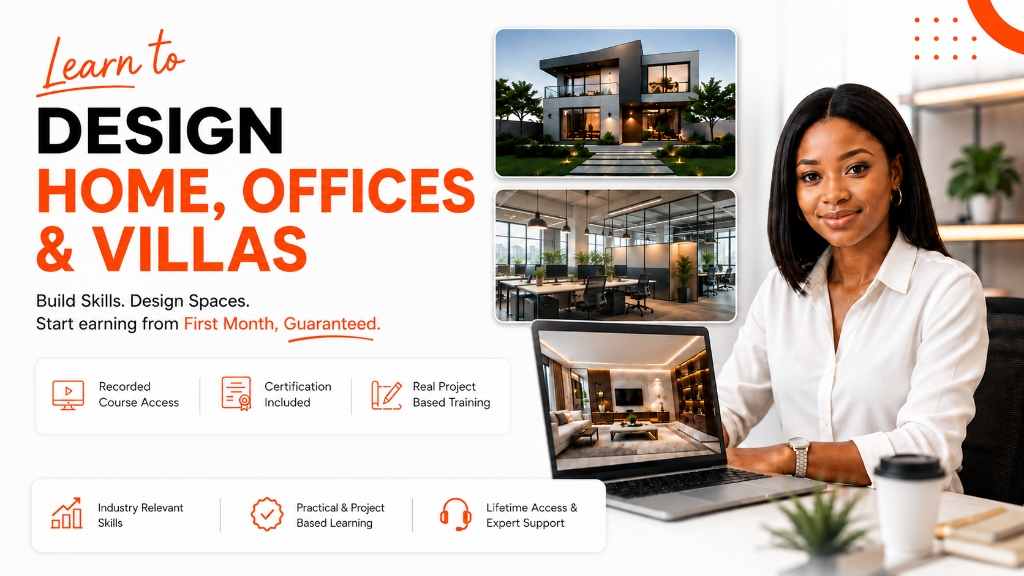
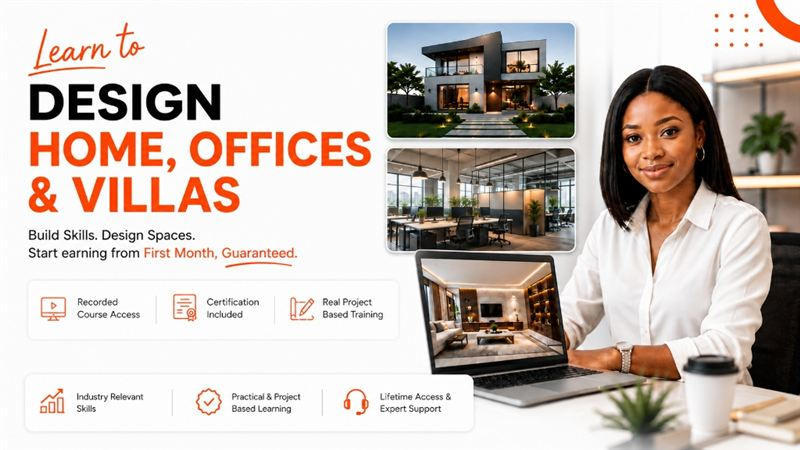
Optimize all images: compress local JPGs by 95% and add =w400-rw WebP auto-conversion for Google Drive images (saves 7.5MB+ payload)

diff --git a/constants.tsx b/constants.tsx
@@ -218,14 +218,16 @@ const RAW_COURSES: Course[] = [
   }
 ];
 
-// --- AUTO-FIX LOGIC ---
+// --- AUTO-FIX LOGIC WITH WEBP & RESPONSIVE IMAGE COMPRESSION ---
 export const COURSES = RAW_COURSES.map(course => {
   let url = course.imageUrl;
   if (url.includes('drive.google.com') && url.includes('/file/d/')) {
     const idMatch = url.match(/\/d\/([^/]+)/);
     if (idMatch && idMatch[1]) {
-      url = `https://lh3.googleusercontent.com/d/${idMatch[1]}`;
+      url = `https://lh3.googleusercontent.com/d/${idMatch[1]}=w400-rw`;
     }
+  } else if (url.includes('lh3.googleusercontent.com/d/') && !url.includes('=')) {
+    url = `${url}=w400-rw`;
   }
   return { ...course, imageUrl: url };
 });
